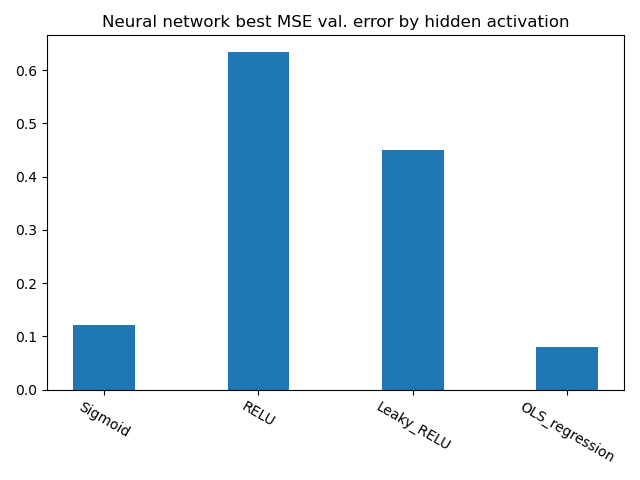
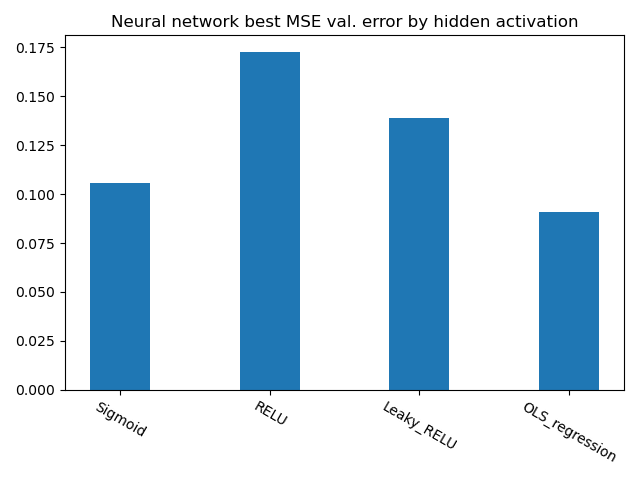
Added crossvalidation to part B.

diff --git a/partBCrossValidated.py b/partBCrossValidated.py
@@ -1,0 +1,163 @@
+'''
+This code uses neural networks to model a dataset generated by a second degree polynomial.
+It tests 3 different activation functions and compares the results with a benchmark of regular OLS regression.
+It uses crossvalidation with 5 folds.
+'''
+
+from neural_network import FFNN
+from cost_functions import *
+from schedulers import *
+from activation_functions import *
+from sklearn.model_selection import train_test_split
+import matplotlib.pyplot as plt
+
+#Define path for saving figures.
+import os
+from pathlib import Path
+cwd = os.getcwd()
+path = Path(cwd) / "FigurePlots" / "B_NeuralNetwork"
+
+if not path.exists():
+    path.mkdir()
+
+def plot_etas(etas, MSEs, title, filename):
+    '''
+    Description:
+    ------------
+    Function for plotting MSE by eta values.
+    Parameters:
+    ------------
+        I   etas list(floats): eta values tested
+        II  MSEs list(floats): MSE for the eta values
+        III title str: Title for plot
+        IV filename str | Path: path for saving figure
+
+    Returns:
+    ------------
+        I   None
+    '''
+    plt.figure()
+    plt.plot(etas, MSEs)
+    plt.xscale("log")
+    plt.title("Validation MSE for method" + title)
+    plt.tight_layout()
+    plt.savefig(path / filename)
+
+
+
+#Define data
+def f(x):
+    return -3+5 * x -3*x**2
+
+np.random.seed(13)
+n_datapoints = 1000
+x = np.random.rand(n_datapoints, 1)
+y = f(x) + 0.3*np.random.randn(n_datapoints, 1)
+
+#Make train and test set split indices for Crossvalidation
+from sklearn.model_selection import KFold
+
+n_folds = 5
+kf = KFold(n_splits=n_folds)
+
+#print(f"Train test splits: {indicesX}, {indicesY}")
+#Define hyperparameters
+n_etas = 10
+etas = np.geomspace(10**(-7), 1, n_etas)
+n_lams = 10
+lams = np.geomspace(10**(-7), 1, n_lams)
+batches = 10
+epochs = 20
+seed = 13
+
+# Define topology of neural network. 1 Hidden layer with 10 neurons.
+dimensions = (1, 20, 1)
+
+#Keep track of best MSE by acctivation method
+MSE_method = []
+method_names =  [] 
+
+
+#Neural network with activation function sigmoid.
+method_name= "Sigmoid"
+MSEs = np.zeros((n_folds, n_etas))
+for i, (train_index, test_index) in  enumerate(kf.split(x, y)):
+    for j, eta in enumerate(etas):
+        NN = FFNN(dimensions, hidden_func=sigmoid, output_func=identity, cost_func=CostOLS, seed=seed)
+        scores = NN.fit(x[train_index], y[train_index], RMS_prop(eta, 0.9), batches=batches, epochs=epochs, X_val = x[test_index], t_val = y[test_index])
+        MSEs[i][j] = np.min(scores["val_errors"])
+
+plot_etas(etas, np.mean(MSEs, axis=0), method_name, method_name + ".png")
+print(f'Best over folds: {np.min(MSEs, axis=1)}')
+print(np.mean(np.min(MSEs, axis=1)))
+MSE_method.append(np.mean(np.min(MSEs, axis=1)))
+method_names.append(method_name)
+print(f"\n Best MSE train sigmoid is {np.min(MSEs)}")
+
+#Neural network with activation function RELU
+method_name= "RELU"
+MSEs = np.zeros((n_folds, n_etas))
+for i, (train_index, test_index) in  enumerate(kf.split(x, y)):
+    for j, eta in enumerate(etas):
+        NN = FFNN(dimensions, hidden_func=RELU, output_func=identity, cost_func=CostOLS, seed=seed)
+        scores = NN.fit(x[train_index], y[train_index], RMS_prop(eta, 0.9), batches=batches, epochs=epochs, X_val = x[test_index], t_val = y[test_index])
+        MSEs[i][j] = np.min(scores["val_errors"])
+
+plot_etas(etas, np.mean(MSEs, axis=0), method_name, method_name + ".png")
+print(f'Best over folds: {np.min(MSEs, axis=1)}')
+print(np.mean(np.min(MSEs, axis=1)))
+MSE_method.append(np.mean(np.min(MSEs, axis=1)))
+method_names.append(method_name)
+print(f"\n Best MSE train RELU is {np.min(MSEs)}")
+
+
+#Neural network with activation function Leaky RELU
+method_name= "Leaky_RELU"
+MSEs = np.zeros((n_folds, n_etas))
+for i, (train_index, test_index) in  enumerate(kf.split(x, y)):
+    print(f"Fold {i} \n")
+    for j, eta in enumerate(etas):
+        NN = FFNN(dimensions, hidden_func=LRELU, output_func=identity, cost_func=CostOLS, seed=seed)
+        scores = NN.fit(x[train_index], y[train_index], RMS_prop(eta, 0.9), batches=batches, epochs=epochs, X_val = x[test_index], t_val = y[test_index])
+        MSEs[i][j] = np.min(scores["val_errors"])
+
+plot_etas(etas, np.mean(MSEs, axis=0), method_name, method_name + ".png")
+print(f'Best over folds: {np.min(MSEs, axis=1)}')
+print(np.mean(np.min(MSEs, axis=1)))
+MSE_method.append(np.mean(np.min(MSEs, axis=1)))
+method_names.append(method_name)
+print(f"\n Best MSE train LRELU is {np.min(MSEs)}")
+
+
+#Do a regular OLS for benchmarking
+method_name = "OLS_regression"
+from OLS_regression import ols_regression
+MSEs = np.zeros(n_folds)
+for i, (train_index, test_index) in  enumerate(kf.split(x, y)):
+    X_train = np.c_[np.ones(x[train_index].size), x[train_index], x[train_index]**2]
+    X_test = np.c_[np.ones(x[test_index].size), x[test_index], x[test_index]**2]
+    pred_train, pred_val, thetas = ols_regression(X_train, X_test, y[train_index])
+
+    MSEs[i] = CostOLS(y[test_index])(pred_val)
+
+MSE_method.append(np.mean(MSEs))
+method_names.append(method_name)
+
+
+print(f"Avg MSE {MSE_method}")
+
+#Define new folder for saving figure
+path = Path(cwd) / "FigurePlots" / "Neural_Network_By_method"
+if not path.exists():
+    path.mkdir()
+
+
+#Plot bar chart of best MSE by activation function
+plt.figure()
+plt.bar(range(0, 2*len(method_names), 2), MSE_method,  tick_label =method_names)
+plt.title("Neural network best MSE val. error by hidden activation")
+plt.xticks(rotation=-30)
+plt.tight_layout()
+plt.savefig(path / "activation_func.png")
+
+

diff --git a/partB.py b/partB.py
@@ -52,9 +52,10 @@ n_datapoints = 100
 x = np.random.rand(n_datapoints, 1)
 y = f(x) + 0.3*np.random.randn(n_datapoints, 1)
 
+#Split in train and test sets
 x_train, x_test, y_train, y_test = train_test_split(x, y, test_size=0.2)
 
-
+#Define hyperparameters
 n_etas = 10
 etas = np.geomspace(10**(-7), 1, n_etas)
 n_lams = 10
@@ -68,7 +69,7 @@ dimensions = (1, 10, 1)
 
 #Keep track of best MSE by acctivation method
 MSE_method = []
-method_names =  [] #
+method_names =  [] 
 
 
 #Neural network with activation function sigmoid.
